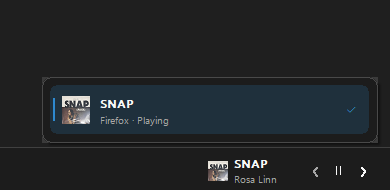
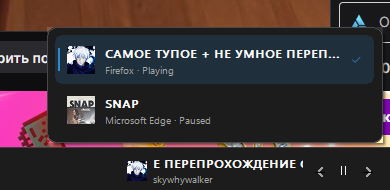
English UI, chevron controls, taskbar-matching chrome, autostart option

diff --git a/src/main.rs b/src/main.rs
@@ -1,5 +1,6 @@
 #![cfg_attr(not(debug_assertions), windows_subsystem = "windows")]
 
+mod autostart;
 mod config;
 mod gfx;
 mod icons;
@@ -66,6 +67,7 @@ const ID_TOGGLE: usize = 2001;
 const ID_AUTO: usize = 2002;
 const ID_CLEAR_PIN: usize = 2003;
 const ID_EXIT: usize = 2004;
+const ID_AUTOSTART: usize = 2005;
 
 struct App {
     host: HWND,
@@ -166,6 +168,8 @@ fn main() {
     let cmd = smtc::start(host, shared.clone());
 
     let dpi = unsafe { GetDpiForSystem() }.max(96);
+    let settings = Settings::load();
+    autostart::apply(settings.autostart);
     let state = App {
         host,
         strip: None,
@@ -174,7 +178,7 @@ fn main() {
         snapshot: Snapshot::default(),
         shared,
         cmd,
-        settings: Settings::load(),
+        settings,
         display: None,
         dpi,
         fonts: Some(ui::Fonts::new(dpi)),
@@ -817,7 +821,7 @@ fn append(menu: HMENU, flags: MENU_ITEM_FLAGS, id: usize, text: &str) {
 }
 
 /// Modal menu. Must be called without holding the app lock: it pumps messages.
-fn show_menu(host: HWND, enabled: bool, pinned: bool) -> usize {
+fn show_menu(host: HWND, enabled: bool, pinned: bool, autostart_enabled: bool) -> usize {
     unsafe {
         let Ok(menu) = CreatePopupMenu() else {
             return 0;
@@ -837,6 +841,13 @@ fn show_menu(host: HWND, enabled: bool, pinned: bool) -> usize {
         if pinned {
             append(menu, MF_STRING, ID_CLEAR_PIN, "Unpin source");
         }
+        let _ = AppendMenuW(menu, MF_SEPARATOR, 0, PCWSTR::null());
+        let autostart_flags = if autostart_enabled {
+            MF_STRING | MF_CHECKED
+        } else {
+            MF_STRING
+        };
+        append(menu, autostart_flags, ID_AUTOSTART, "Start with Windows");
         let _ = AppendMenuW(menu, MF_SEPARATOR, 0, PCWSTR::null());
         append(menu, MF_STRING, ID_EXIT, "Exit");
 
@@ -858,12 +869,13 @@ fn show_menu(host: HWND, enabled: bool, pinned: bool) -> usize {
     }
 }
 
-fn take_menu_snapshot() -> (HWND, bool, bool) {
+fn take_menu_snapshot() -> (HWND, bool, bool, bool) {
     let state = app();
     (
         state.host,
         state.settings.enabled,
         state.settings.pinned.is_some(),
+        state.settings.autostart,
     )
 }
 
@@ -886,6 +898,11 @@ fn handle_menu(state: &mut App, command: usize) {
             ensure_strip(state);
             invalidate(state.strip);
             invalidate(state.popup);
+        }
+        ID_AUTOSTART => {
+            state.settings.autostart = !state.settings.autostart;
+            state.settings.save();
+            autostart::apply(state.settings.autostart);
         }
         ID_EXIT => unsafe {
             // DestroyWindow sends WM_DESTROY synchronously; defer it so we do
@@ -963,8 +980,8 @@ unsafe extern "system" fn host_proc(
             let notification = (lparam.0 as u32) & 0xFFFF;
             match notification {
                 WM_RBUTTONUP | WM_CONTEXTMENU => {
-                    let (host, enabled, pinned) = take_menu_snapshot();
-                    let command = show_menu(host, enabled, pinned);
+                    let (host, enabled, pinned, autostart_enabled) = take_menu_snapshot();
+                    let command = show_menu(host, enabled, pinned, autostart_enabled);
                     handle_menu(&mut app(), command);
                 }
                 WM_LBUTTONUP => {
@@ -1112,8 +1129,8 @@ unsafe extern "system" fn strip_proc(
             LRESULT(0)
         }
         WM_RBUTTONUP => {
-            let (host, enabled, pinned) = take_menu_snapshot();
-            let command = show_menu(host, enabled, pinned);
+            let (host, enabled, pinned, autostart_enabled) = take_menu_snapshot();
+            let command = show_menu(host, enabled, pinned, autostart_enabled);
             handle_menu(&mut app(), command);
             LRESULT(0)
         }
@@ -1179,8 +1196,8 @@ unsafe extern "system" fn popup_proc(
             LRESULT(0)
         }
         WM_RBUTTONUP => {
-            let (host, enabled, pinned) = take_menu_snapshot();
-            let command = show_menu(host, enabled, pinned);
+            let (host, enabled, pinned, autostart_enabled) = take_menu_snapshot();
+            let command = show_menu(host, enabled, pinned, autostart_enabled);
             handle_menu(&mut app(), command);
             LRESULT(0)
         }

diff --git a/src/gfx.rs b/src/gfx.rs
@@ -1,12 +1,12 @@
 use windows::Win32::Foundation::{COLORREF, HWND, POINT, RECT, SIZE};
 use windows::Win32::Graphics::Gdi::{
-    AC_SRC_ALPHA, AC_SRC_OVER, BI_RGB, BITMAPINFO, BITMAPINFOHEADER, BLENDFUNCTION,
-    CreateCompatibleDC, CreateDIBSection, CreatePen, CreateSolidBrush, DIB_RGB_COLORS,
-    DRAW_TEXT_FORMAT, DT_NOPREFIX, DeleteDC, DeleteObject, DrawTextW, FillRect, GetDC,
-    GetStockObject, GetTextExtentPoint32W, HALFTONE, HBITMAP, HDC, HFONT, HGDIOBJ,
+    AC_SRC_ALPHA, AC_SRC_OVER, BI_RGB, BITMAPINFO, BITMAPINFOHEADER, BLENDFUNCTION, BitBlt,
+    CreateCompatibleBitmap, CreateCompatibleDC, CreateDIBSection, CreatePen, CreateSolidBrush,
+    DIB_RGB_COLORS, DRAW_TEXT_FORMAT, DT_NOPREFIX, DeleteDC, DeleteObject, DrawTextW, FillRect,
+    GetDC, GetStockObject, GetTextExtentPoint32W, HALFTONE, HBITMAP, HDC, HFONT, HGDIOBJ,
     IntersectClipRect, NULL_BRUSH, NULL_PEN, PS_ENDCAP_ROUND, PS_GEOMETRIC, PS_JOIN_ROUND,
     PS_SOLID, Polygon, Polyline, ReleaseDC, RestoreDC, RoundRect, SRCCOPY, SaveDC, SelectObject,
-    SetBkMode, SetStretchBltMode, SetTextColor, StretchDIBits, TRANSPARENT,
+    SetBkMode, SetStretchBltMode, SetTextColor, StretchBlt, StretchDIBits, TRANSPARENT,
 };
 use windows::Win32::UI::WindowsAndMessaging::{
     DI_NORMAL, DrawIconEx, HICON, ULW_ALPHA, UpdateLayeredWindow,
@@ -141,6 +141,59 @@ impl Canvas {
             };
             FillRect(self.dc, &rect, brush);
             let _ = DeleteObject(HGDIOBJ(brush.0));
+        }
+    }
+
+    /// Mirrors a horizontal band of the canvas directly below itself.
+    ///
+    /// Chevrons are drawn once in the upper half and flipped down pixel-for-pixel,
+    /// so GDI's line rasterizer cannot make the two halves differ.
+    pub fn mirror_below(&self, source: RECT, dest_top: i32) {
+        let width = source.right - source.left;
+        let height = source.bottom - source.top;
+        if width <= 0 || height <= 0 {
+            return;
+        }
+        unsafe {
+            let mem = CreateCompatibleDC(Some(self.dc));
+            let bitmap = CreateCompatibleBitmap(self.dc, width, height);
+            if mem.is_invalid() || bitmap.is_invalid() {
+                if !bitmap.is_invalid() {
+                    let _ = DeleteObject(HGDIOBJ(bitmap.0));
+                }
+                if !mem.is_invalid() {
+                    let _ = DeleteDC(mem);
+                }
+                return;
+            }
+            let old = SelectObject(mem, HGDIOBJ(bitmap.0));
+            let _ = BitBlt(
+                mem,
+                0,
+                0,
+                width,
+                height,
+                Some(self.dc),
+                source.left,
+                source.top,
+                SRCCOPY,
+            );
+            let _ = StretchBlt(
+                self.dc,
+                source.left,
+                dest_top,
+                width,
+                height,
+                Some(mem),
+                0,
+                height,
+                width,
+                -height,
+                SRCCOPY,
+            );
+            SelectObject(mem, old);
+            let _ = DeleteObject(HGDIOBJ(bitmap.0));
+            let _ = DeleteDC(mem);
         }
     }
 

diff --git a/src/ui.rs b/src/ui.rs
@@ -385,13 +385,28 @@ fn draw_media_glyph(canvas: &Canvas, dpi: u32, rect: RECT, glyph: MediaGlyph, co
             canvas.round_rect(bar(1.2, 3.2, 5.0), (1.0 * scale) as i32, Some(color), None);
         }
         MediaGlyph::Prev => {
-            // The taskbar's show-hidden-icons chevron, rotated left.
-            let points = [point(2.0, -4.5), point(-2.0, 0.0), point(2.0, 4.5)];
+            // Draw only the upper half, then mirror it down pixel-for-pixel so
+            // the two arms of the chevron are exactly symmetrical.
+            let points = [point(2.0, -4.0), point(-2.0, 0.0)];
             canvas.stroke_polyline(&points, color, stroke);
+            let source = RECT {
+                left: (cx - 5.0 * scale).round() as i32,
+                top: (cy - 6.0 * scale).round() as i32,
+                right: (cx + 5.0 * scale).round() as i32,
+                bottom: cy.round() as i32,
+            };
+            canvas.mirror_below(source, source.bottom + 1);
         }
         MediaGlyph::Next => {
-            let points = [point(-2.0, -4.5), point(2.0, 0.0), point(-2.0, 4.5)];
+            let points = [point(-2.0, -4.0), point(2.0, 0.0)];
             canvas.stroke_polyline(&points, color, stroke);
+            let source = RECT {
+                left: (cx - 5.0 * scale).round() as i32,
+                top: (cy - 6.0 * scale).round() as i32,
+                right: (cx + 5.0 * scale).round() as i32,
+                bottom: cy.round() as i32,
+            };
+            canvas.mirror_below(source, source.bottom + 1);
         }
     }
 }

diff --git a/src/autostart.rs b/src/autostart.rs
@@ -1,0 +1,40 @@
+use windows::Win32::System::Registry::{
+    HKEY_CURRENT_USER, REG_SZ, RegDeleteKeyValueW, RegSetKeyValueW,
+};
+use windows::core::PCWSTR;
+
+const RUN_KEY: &str = r"Software\Microsoft\Windows\CurrentVersion\Run";
+const VALUE_NAME: &str = "SoundDeck";
+
+fn wide(text: &str) -> Vec<u16> {
+    text.encode_utf16().chain([0]).collect()
+}
+
+/// Adds or removes the per-user Run entry. Called on startup and from the menu.
+pub fn apply(enabled: bool) {
+    let key = wide(RUN_KEY);
+    let name = wide(VALUE_NAME);
+    unsafe {
+        if enabled {
+            let Ok(exe) = std::env::current_exe() else {
+                return;
+            };
+            let command = format!("\"{}\"", exe.display());
+            let data: Vec<u16> = command.encode_utf16().chain([0]).collect();
+            let _ = RegSetKeyValueW(
+                HKEY_CURRENT_USER,
+                PCWSTR(key.as_ptr()),
+                PCWSTR(name.as_ptr()),
+                REG_SZ.0,
+                Some(data.as_ptr() as *const core::ffi::c_void),
+                (data.len() * 2) as u32,
+            );
+        } else {
+            let _ = RegDeleteKeyValueW(
+                HKEY_CURRENT_USER,
+                PCWSTR(key.as_ptr()),
+                PCWSTR(name.as_ptr()),
+            );
+        }
+    }
+}

diff --git a/src/config.rs b/src/config.rs
@@ -8,6 +8,8 @@ pub struct Settings {
     pub pinned: Option<String>,
     /// Whether the strip is shown on the taskbar.
     pub enabled: bool,
+    /// Whether SoundDeck is registered to start with Windows.
+    pub autostart: bool,
 }
 
 impl Default for Settings {
@@ -15,6 +17,7 @@ impl Default for Settings {
         Self {
             pinned: None,
             enabled: DEFAULT_ENABLED,
+            autostart: true,
         }
     }
 }
@@ -44,6 +47,7 @@ impl Settings {
                     settings.pinned = (!value.is_empty()).then(|| value.to_string());
                 }
                 "enabled" => settings.enabled = value.trim() != "0",
+                "autostart" => settings.autostart = value.trim() != "0",
                 _ => {}
             }
         }
@@ -63,6 +67,10 @@ impl Settings {
             }
         }
         text.push_str(&format!("enabled={}\n", if self.enabled { 1 } else { 0 }));
+        text.push_str(&format!(
+            "autostart={}\n",
+            if self.autostart { 1 } else { 0 }
+        ));
         let _ = fs::write(path, text);
     }
 }

diff --git a/README.md b/README.md
@@ -19,7 +19,8 @@ written in Rust — no runtime, no installer, no background service.
 - **Blends into the taskbar**: the strip samples the actual taskbar color
   (custom colors, transparency, accent) and has no border or rounded corners.
 - **Theme and DPI aware**, hides itself when nothing is playing.
-- **Tray menu**: show/hide the strip, auto-select, unpin, exit.
+- **Tray menu**: show/hide the strip, auto-select, unpin, start with Windows, exit.
+  Autostart is **on by default** and can be toggled from the menu.
 
 ![Taskbar controls](docs/taskbar.png)
 
@@ -36,7 +37,9 @@ cargo build --release
 ```
 
 The executable is self-contained. Settings are stored in
-`%LOCALAPPDATA%\SoundDeck\settings.txt`.
+`%LOCALAPPDATA%\SoundDeck\settings.txt`. On first launch SoundDeck adds itself to
+`HKCU\Software\Microsoft\Windows\CurrentVersion\Run`; use **Start with Windows**
+in the tray menu to turn that off.
 
 Diagnostics — list the sessions Windows exposes:
 
